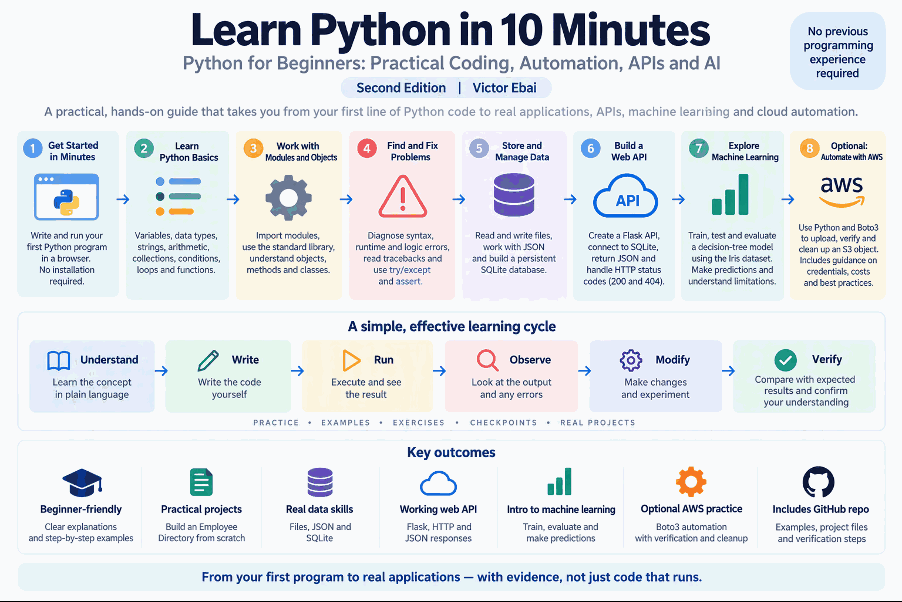
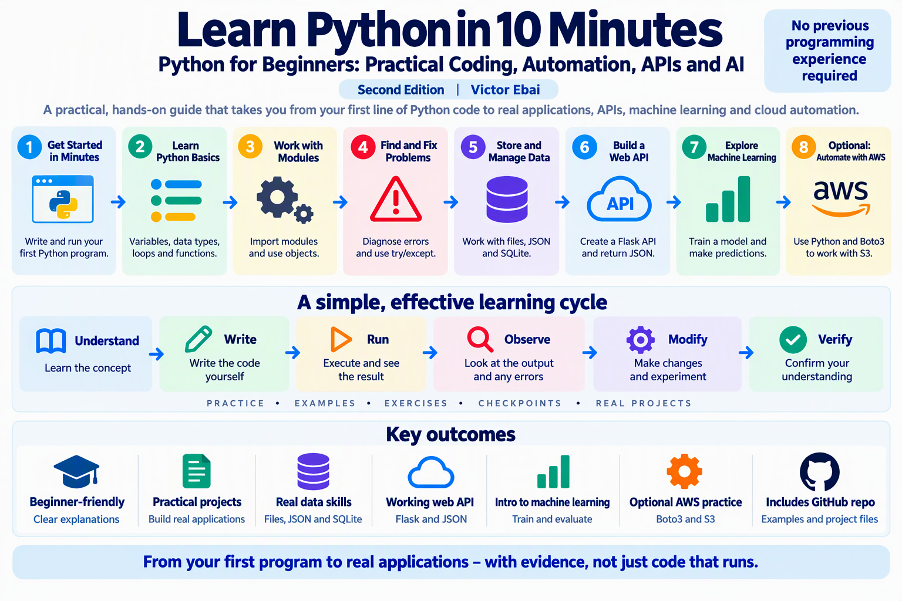
Replace the Python learning journey diagram
Remove the default marker from the UK paperback link.

diff --git a/README.md b/README.md
@@ -8,7 +8,7 @@ The practical learning cycle is **Understand → Write → Run → Observe → M
 
 ## Get the paperback
 
-**[Amazon UK paperback](https://www.amazon.co.uk/dp/B0HSLYR554)** (default) · [Amazon US paperback](https://www.amazon.com/dp/B0HSLYR554)
+**[Amazon UK paperback](https://www.amazon.co.uk/dp/B0HSLYR554)** · [Amazon US paperback](https://www.amazon.com/dp/B0HSLYR554)
 
 **Optional next read:** If you would like to strengthen your understanding of algorithms, variables and the ideas shared by programming languages, *Learn Programming in 10 Minutes* provides a concept-first introduction. [View the paperback on Amazon UK](https://www.amazon.co.uk/dp/B0HSKTNRQF). You do not need this additional book to complete the Python exercises.
 
